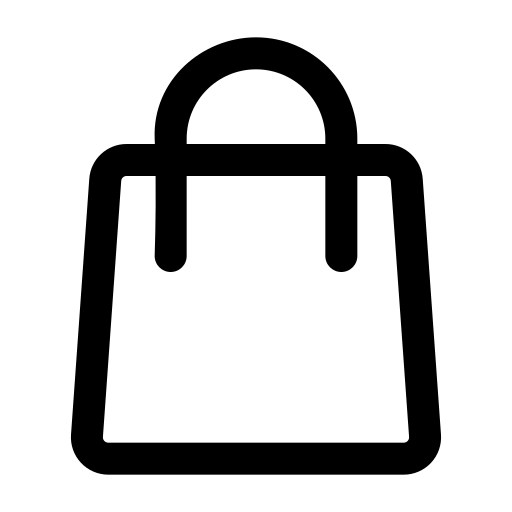
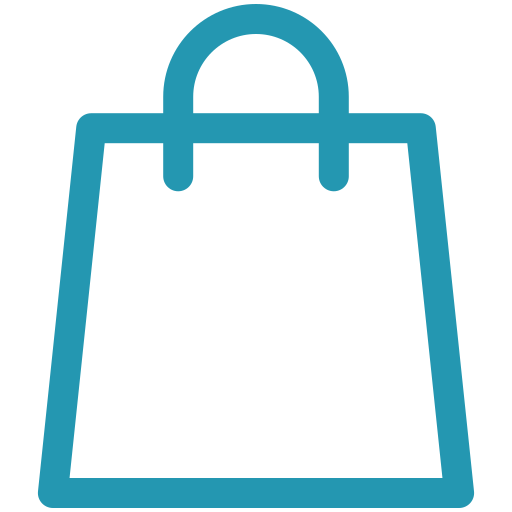
Wishlist finished + Some style liberties taken

diff --git a/cart/templates/cart.html b/cart/templates/cart.html
@@ -72,9 +72,10 @@
                                 {% if cart_item.quantity < cart_item.product.stock %}
                                     <div class="icon">
                                         <td>
-                                            <a href="{% url 'cart:add_cart' cart_item.product.id %}" ><img src="{% static 'images/add-to-cart.png' %}" alt="" height="20rem" width="20rem"></a>&nbsp;
-                                            <a href="{% url 'cart:cart_remove' cart_item.product.id %}" ><img src="{% static 'images/cart-minus.png' %}" alt="" height="20rem" width="20rem"></a>&nbsp;
-                                            <a href="{% url 'cart:full_remove' cart_item.product.id %}" ><img  src="{% static 'images/cartbin.png' %}" alt="" height="20rem" width="20rem"></a>
+                                            <a href="{% url 'cart:add_cart' cart_item.product.id %}" ><img src="{% static 'images/add-to-cart.png' %}" alt="Add product" height="20rem" width="20rem"></a>&nbsp;
+                                            <a href="{% url 'cart:cart_remove' cart_item.product.id %}" ><img src="{% static 'images/cart-minus.png' %}" alt="Reduce product" height="20rem" width="20rem"></a>&nbsp;
+                                            <a href="{% url 'cart:full_remove' cart_item.product.id %}" ><img  src="{% static 'images/cartbin.png' %}" alt="Delete product" height="20rem" width="20rem"></a>
+                                            <a href="{% url 'cart:to_wishlist' cart_item.product.id %}" ><img  src="{% static 'images/wishlist.png' %}" alt="Add to wishlist" height="20rem" width="20rem"></a>
                                         </td>
                                     </div>
                                 {% else %}

diff --git a/templates/base.html b/templates/base.html
@@ -91,10 +91,10 @@
           </div>
           {% endif %}
         </div>
-        <div class="shop">
+        <div class="shop" style="margin-right:8px">
           {% if item_count > 0 %}
           <li class="nav-item">
-            <a class="nav-link" href="{% url 'cart:cart_detail' %}"><img src="{% static 'images/shopping-bag.png' %}" alt="Shopping Cart" height="40rem" width="45rem">({{item_count}})</a>
+            <a class="nav-link" href="{% url 'cart:cart_detail' %}"  style="color: white;"><img src="{% static 'images/shopping-bag.png' %}" alt="Shopping Cart" height="40rem" width="45rem">({{item_count}})</a>
           </li>
           {% else %}
           <li class="nav-item">
@@ -106,11 +106,11 @@
         <div class="shop">
         {% if item_count1 > 0 %}
         <li class="nav-item">
-          <a class="nav-link" href="{% url 'wishlist:wishlist_detail' %}"><img src="{% static 'images/document.png' %}" alt="WishList" height="40rem" width="45rem">({{item_count1}})</a>
+          <a class="nav-link" href="{% url 'wishlist:wishlist_detail' %}"  style="color: white;"><img src="{% static 'images/heart.png' %}" alt="WishList" height="40rem" width="45rem">({{item_count1}})</a>
         </li>
         {% else %}
         <li class="nav-item">
-          <a class="nav-link" href="{% url 'wishlist:wishlist_detail' %}"><img src="{% static 'images/document.png' %}" alt="Wishlist" height="40rem" width="45rem"></a>
+          <a class="nav-link" href="{% url 'wishlist:wishlist_detail' %}"><img src="{% static 'images/heart.png' %}" alt="Wishlist" height="40rem" width="45rem"></a>
         </li>
         {% endif %}
       </div>

diff --git a/wishlist/templates/wishlist.html b/wishlist/templates/wishlist.html
@@ -55,10 +55,8 @@
                 <span>{{ wishlist_item.product.category.name }}</span> |
                 <span>{{ wishlist_item.product.age_rating }}+</span> |
                 <span>€{{ wishlist_item.product.price }}</span> |
-                <br>
-                <br>
-                <span><a class="btn btn-secondary" href="{% url 'cart:add_cart' wishlist_item.product.id%}">Add to cart</a></span>
-                <span><a class="btn btn-secondary" href="{% url 'wishlist:full_remove' wishlist_item.product.id%}">Clear</a></span>
+                <a href="{% url 'cart:add_cart' wishlist_item.product.id%}"><img src="{% static 'images/add-to-cart.png' %}" alt="Add product" height="20rem" width="20rem"></a>
+                <a href="{% url 'wishlist:full_remove' wishlist_item.product.id%}"><img src="{% static 'images/minus.png' %}" alt="Add product" height="20rem" width="20rem"></a>
                 </ul>
                 <hr />
               {% endfor %}

diff --git a/templates/shop/all_products.html b/templates/shop/all_products.html
@@ -52,9 +52,14 @@
                 <p> {{product.category.name}} </p>
                   <p>€{{product.price}}</p>
                   {% if user.is_authenticated %}
+                  <section>
+                  <div class="cartbutton">
+                    <a name="nav-link" href="{% url 'wishlist:add_wishlist' product.id %}"><img src="{% static 'images/heart_W.png' %}" alt="Wishlist" height="40rem" width="42rem"></a>
+                  </div>
                   <div class="cartbutton">
                     <a name="nav-link" href="{% url 'cart:add_cart' product.id%}"><img src="{% static 'images/addcart.png' %}" alt="Shopping Cart" height="40rem" width="42rem"></a>
                   </div>
+                </section>
                   {% endif %}
               </div>
           </div>

diff --git a/cart/views.py b/cart/views.py
@@ -1,5 +1,6 @@
 from django.shortcuts import redirect, render, get_object_or_404
 from pages.models import Product
+from wishlist.models import Wishlist, WishListItem
 from .models import Cart, CartItem
 from django.core.exceptions import ObjectDoesNotExist
 import stripe
@@ -24,6 +25,7 @@ def add_cart(request, product_id):
     except Cart.DoesNotExist:
         cart = Cart.objects.create(cart_id=_cart_id(request))
         cart.save()
+        
     try:
         cart_item = CartItem.objects.get(product=product, cart=cart)
         if (cart_item.quantity < cart_item.product.stock):
@@ -31,8 +33,33 @@ def add_cart(request, product_id):
         cart_item.save()
     except CartItem.DoesNotExist:
         cart_item = CartItem.objects.create(product=product, quantity=1,cart=cart)
+    
+    try: #Related to Wishlist func.
+        wishlist = Wishlist.objects.get(wishlist_id=_cart_id(request))
+        wishlist_item = WishListItem.objects.get(wishlist=wishlist, product=product)
+        wishlist_item.delete()
+    except (Wishlist.DoesNotExist, WishListItem.DoesNotExist):
+        pass 
     return redirect('cart:cart_detail')
 
+def to_wishlist(request, product_id): #Moves prod from cart 2 wishlist
+    product = get_object_or_404(Product, id=product_id)
+    try:
+        
+        cart = Cart.objects.get(cart_id=_cart_id(request))
+        
+        cart_item = CartItem.objects.get(product=product, cart=cart)
+        
+        cart_item.delete()
+        
+        wishlist = Wishlist.objects.get_or_create(wishlist_id=_cart_id(request))[0]
+    
+        WishListItem.objects.get_or_create(product=product, wishlist=wishlist, defaults={'quantity': 1})
+    except CartItem.DoesNotExist:
+        return redirect('cart:cart_detail')    
+    
+    return redirect('wishlist:wishlist_detail')
+    
 def cart_detail(request, total=0, counter=0, cart_items = None):
     discount = 0
     voucher_id = 0

diff --git a/cart/urls.py b/cart/urls.py
@@ -9,4 +9,5 @@ urlpatterns = [
     path('remove/<uuid:product_id>/', views.cart_remove, name='cart_remove'),
     path('full_remove/<uuid:product_id>/', views.full_remove, name='full_remove'),
     path('new_order/', views.create_order, name='new_order'),
+    path('to-wishlist/<uuid:product_id>/',views.to_wishlist, name='to_wishlist')
 ]
